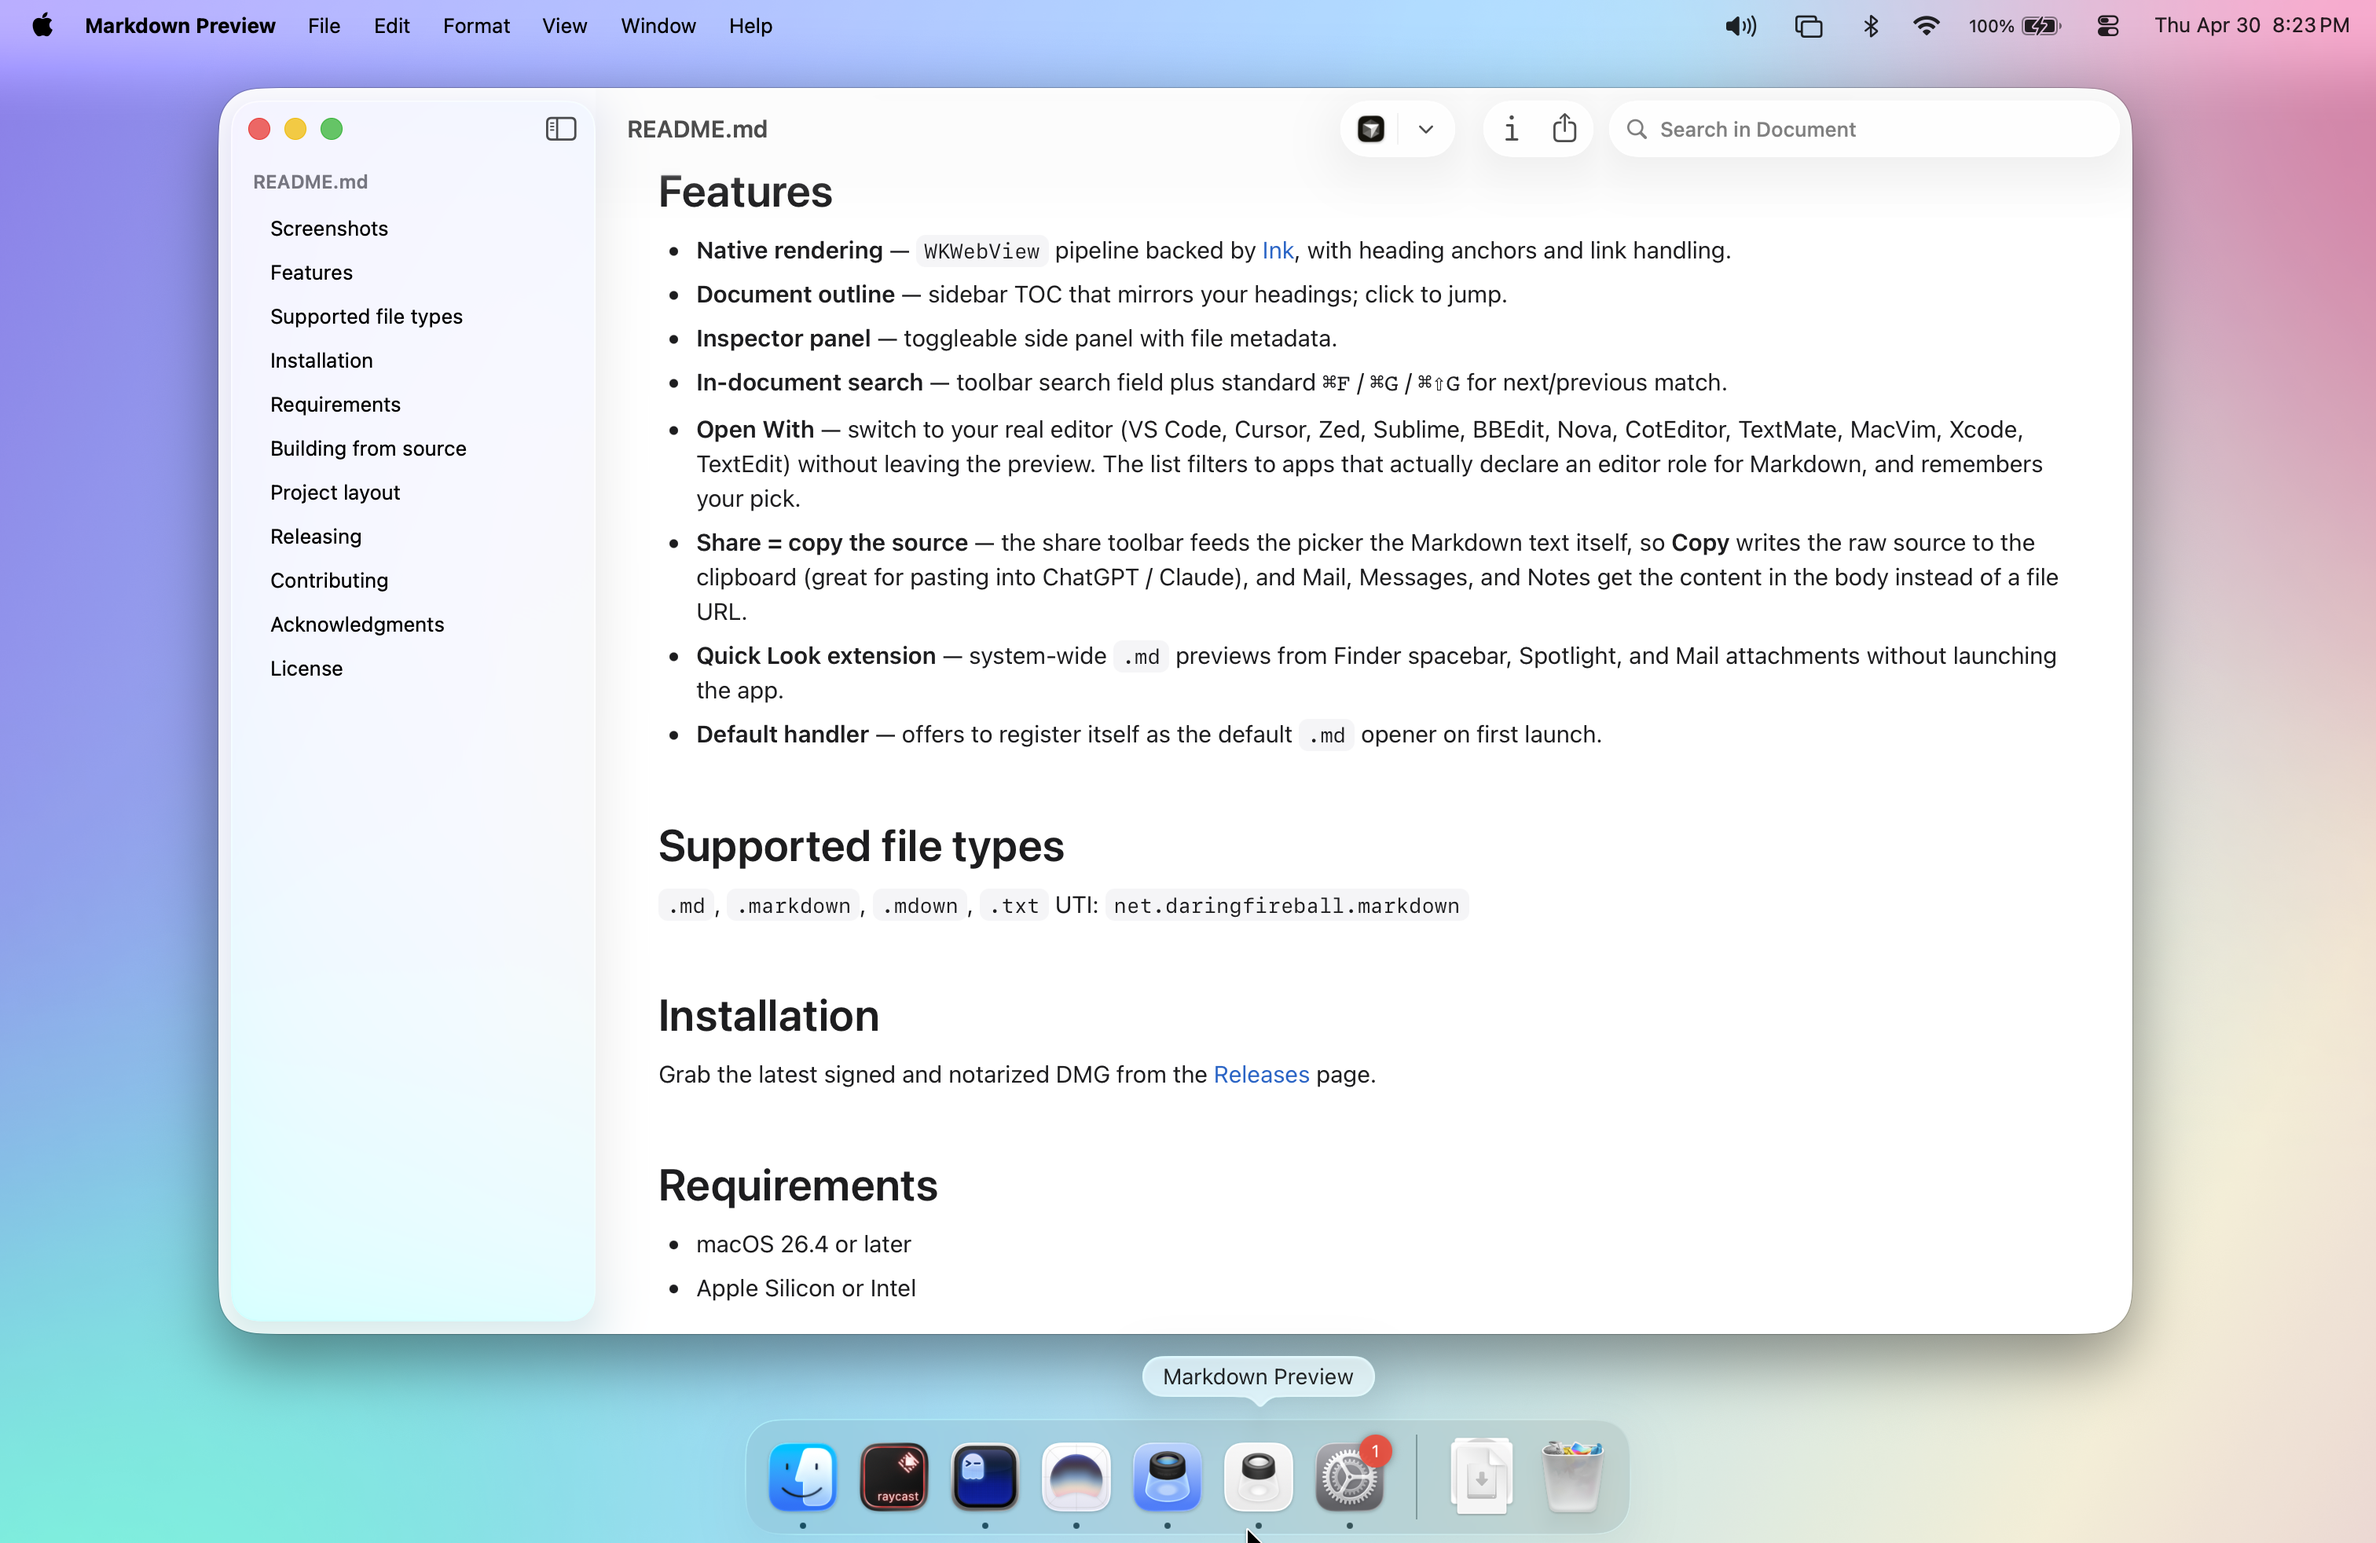
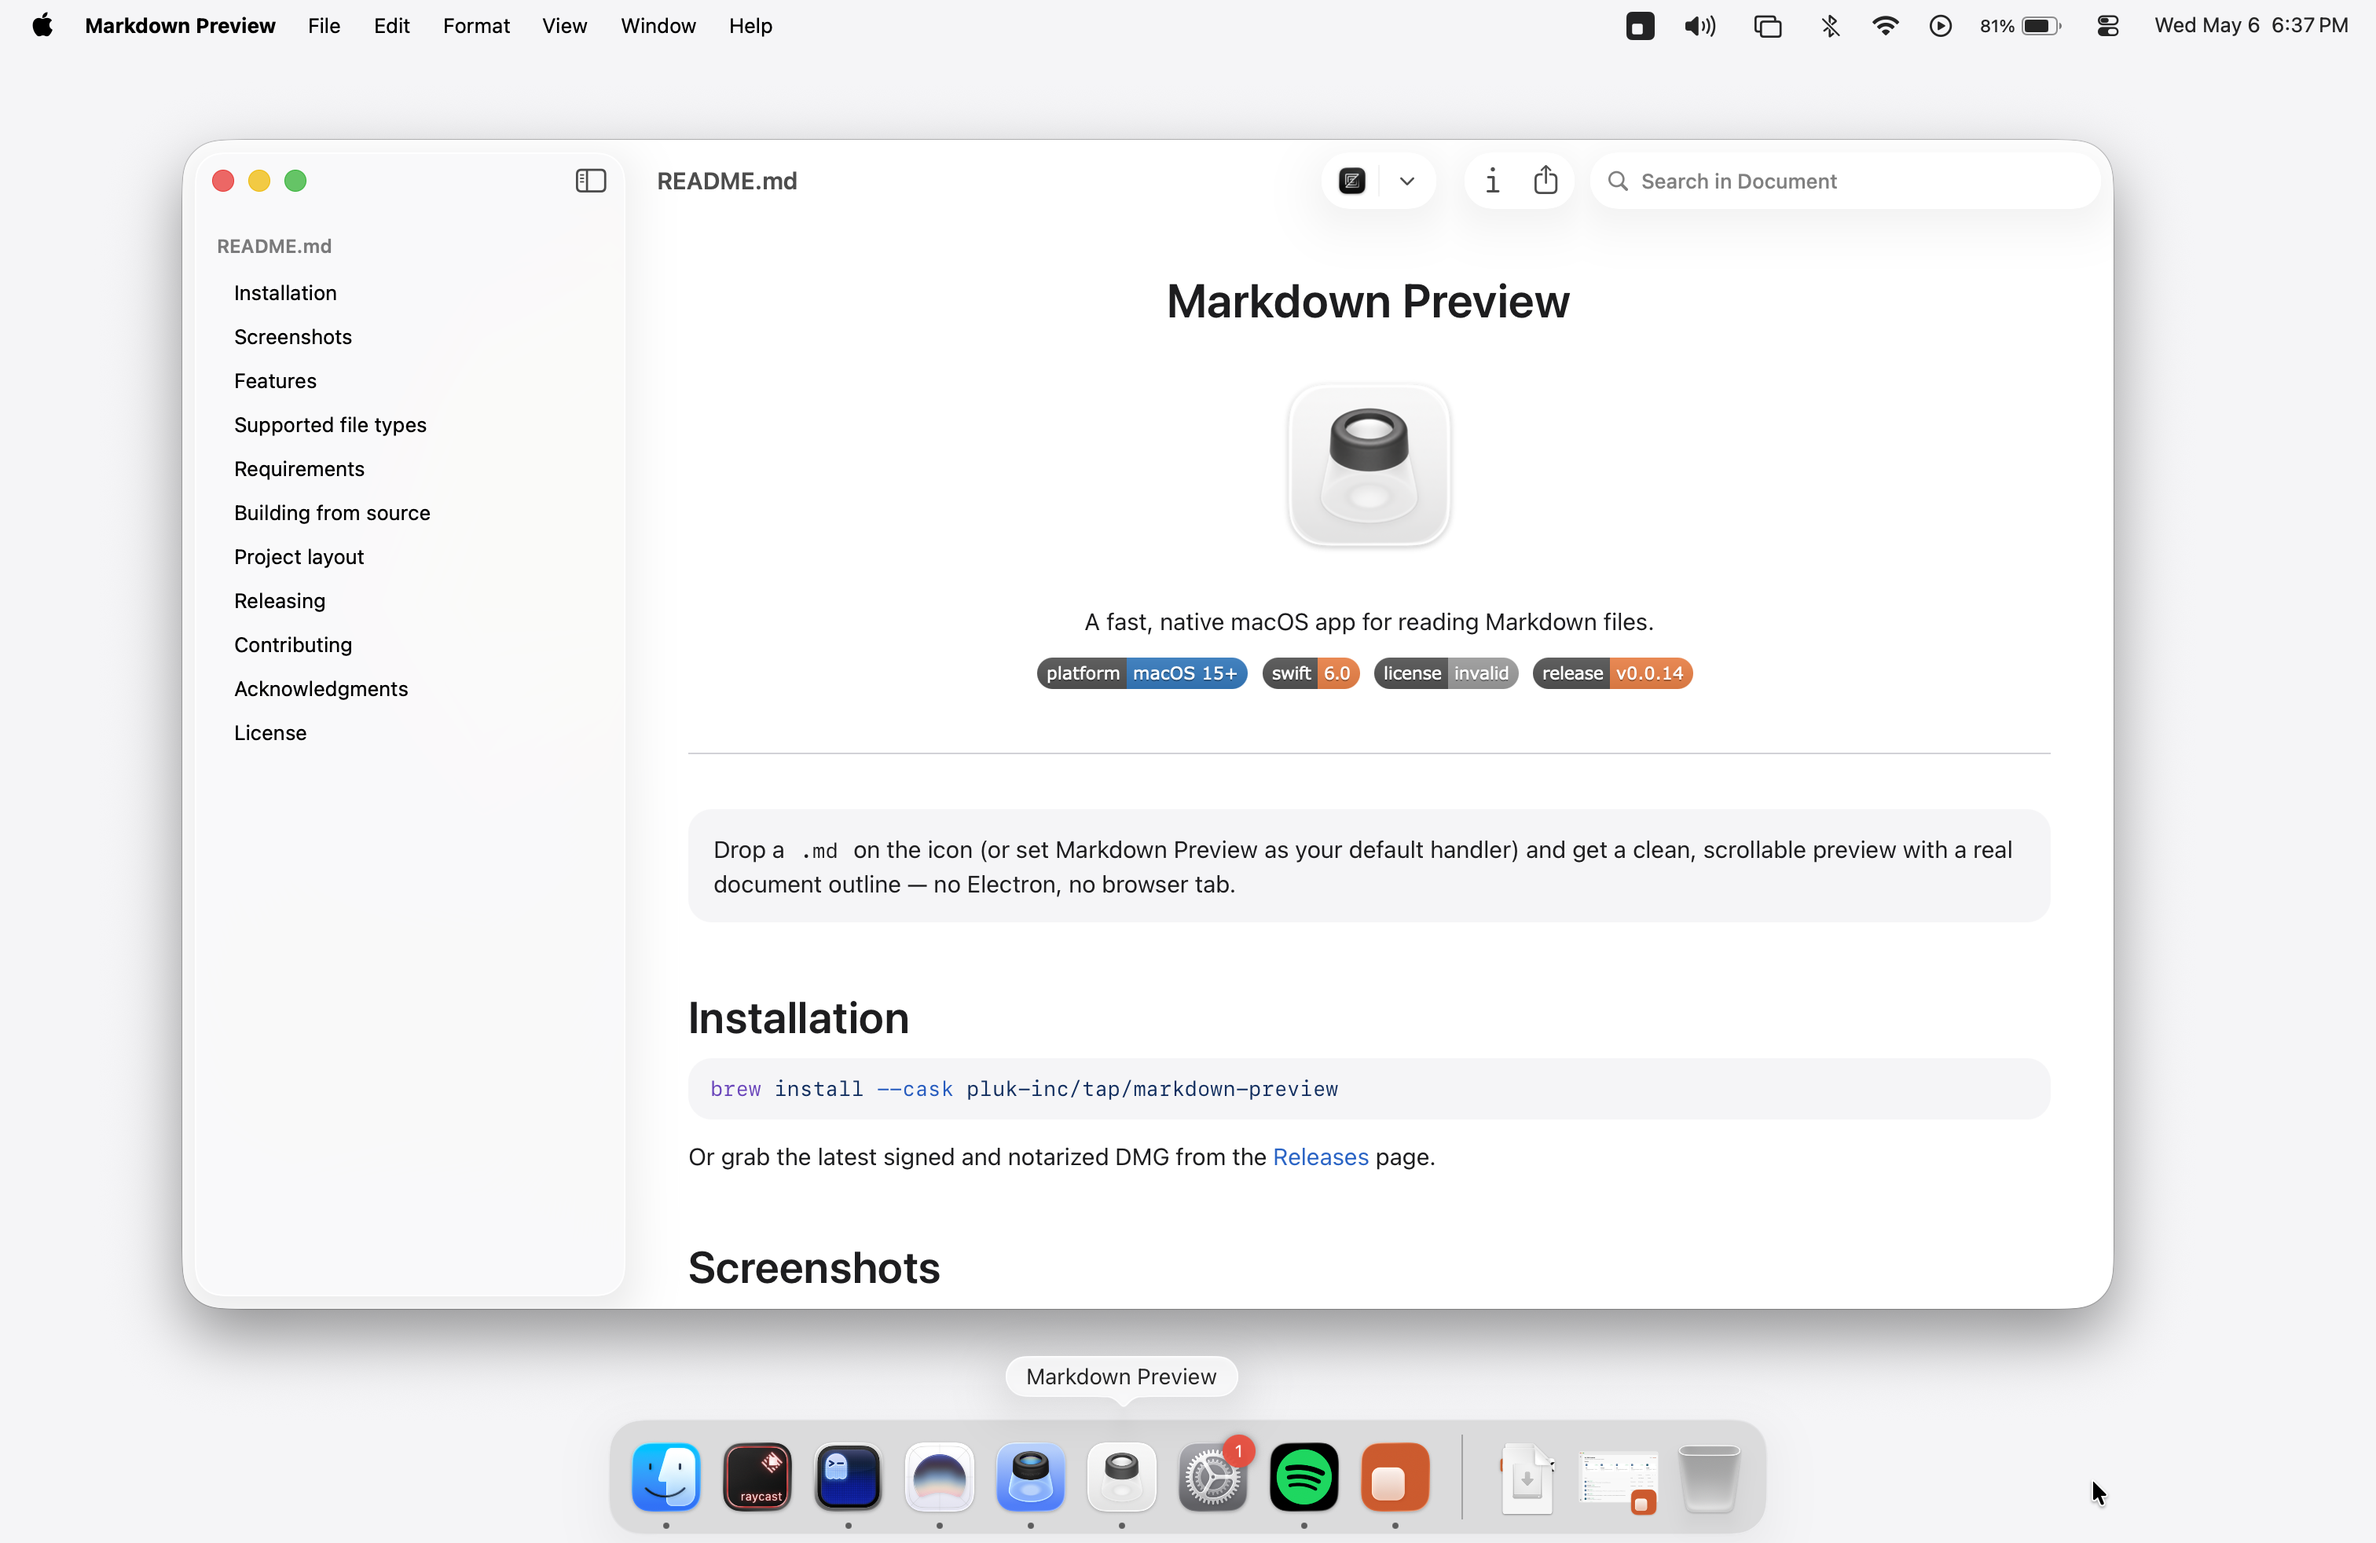
Add release showcase sample and refresh docs screenshots
The showcase sample exercises the recent additions (relative images,
print, Shiki, KaTeX, footnotes) in one document for screenshots and
manual verification.

diff --git a/samples/release-showcase/showcase.md b/samples/release-showcase/showcase.md
@@ -1,0 +1,41 @@
+---
+title: Markdown Preview — what's new
+---
+
+#### Markdown Preview — what's new
+
+<img src="images/app-icon.png" alt="App icon" width="80">
+
+A roundup of recent improvements across the app and Quick Look extension.
+
+###### Added
+
+- **Relative images in Quick Look.** Sibling image files are inlined as `cid:` attachments so they show up in Finder and Spotlight previews.
+- **Native printing.** `⌘P` prints the rendered document through WKWebView with proper pagination.
+- **Shiki syntax highlighting.** Bundled offline, language-aware colors for fenced code:
+
+  ```swift
+  struct ContentView: View {
+      var body: some View { Text("Hello").font(.headline) }
+  }
+  ```
+
+- **KaTeX math.** Inline $e^{i\pi} + 1 = 0$ and display:
+
+  $$\int_{-\infty}^{\infty} e^{-x^2}\, dx = \sqrt{\pi}$$
+
+- **Footnotes.** Definitions and references[^a] now render as a proper footnotes section.
+- **Inline markup in headings** — bold, italic, code, and links work inside heading text.
+- **Homebrew install.** `brew install --cask pluk-inc/tap/markdown-preview` is the primary path.
+- **More Markdown extensions** opened natively: `.mdown`, `.mkd`, `.mkdn`, `.mdwn`, `.mdtxt`, `.mdtext`, `.rmd`.
+
+###### Fixed
+
+- **Task lists render inline**, with no duplicate bullet next to the checkbox:
+  - [x] checked
+  - [ ] unchecked
+- **HTML in body text and code is escaped properly** — `a < b && c > d` and `` `<div>` `` now appear literally instead of disappearing.
+- **Math extraction skips code spans and fences** — `` `$PATH` `` renders verbatim.
+- **Default `.md` handler claim strengthened** so Markdown Preview wins over apps with weaker associations.
+
+[^a]: Footnotes link back to their references.
